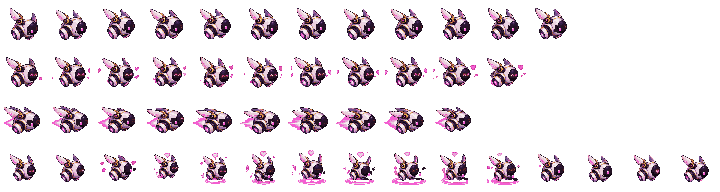
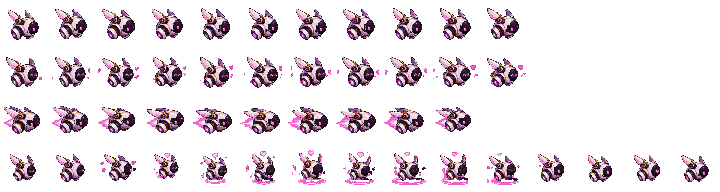
fix(daris): quitar el primer fotograma de flotar (11), 0.8.5

Changed region(s): [[0.2139, 0.0312, 0.5806, 0.2188], [0.0, 0.0312, 0.1833, 0.2188], [0.6111, 0.0312, 0.7944, 0.2188]]

diff --git a/src/app/scene/daris.ts b/src/app/scene/daris.ts
@@ -2,7 +2,7 @@
 export const DARIS_CELL = 48;
 /** Fila, fotogramas y duración de cada fotograma (en fotogramas de 60 Hz) de cada animación (DE-02). */
 export const DARIS_ANIM = {
-  idle: { row: 0, frames: 12, ticks: 6 },
+  idle: { row: 0, frames: 11, ticks: 6 },
   happy: { row: 1, frames: 11, ticks: 6 },
   dash: { row: 2, frames: 10, ticks: 5 },
   cheer: { row: 3, frames: 15, ticks: 6 },

diff --git a/docs/specs/08-daris/spec.md b/docs/specs/08-daris/spec.md
@@ -45,7 +45,7 @@ Principio: lo que el compañero **dice y hace** sigue las mismas reglas que ARVI
 
   | Fila | Animación | Fotogramas | Cuándo |
   |---|---|---|---|
-  | 1 | Flotar | 12 | En reposo |
+  | 1 | Flotar | 11 | En reposo |
   | 2 | Contenta (ojos «^^» y corazones) | 11 | Mientras habla |
   | 3 | Acelerón (estela) | 10 | Entrada: llega desde la izquierda de la escena hasta su sitio (MV-01) |
   | 4 | Corazones (salto con anillo) | 15 | Al celebrar: subida de nivel, logro nuevo y día completo; una vez |
